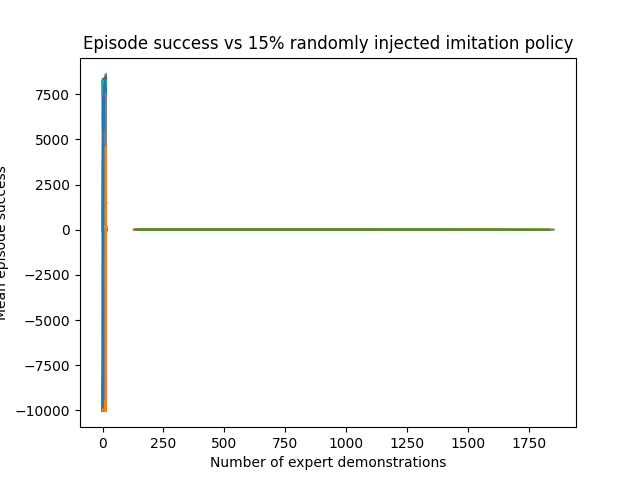
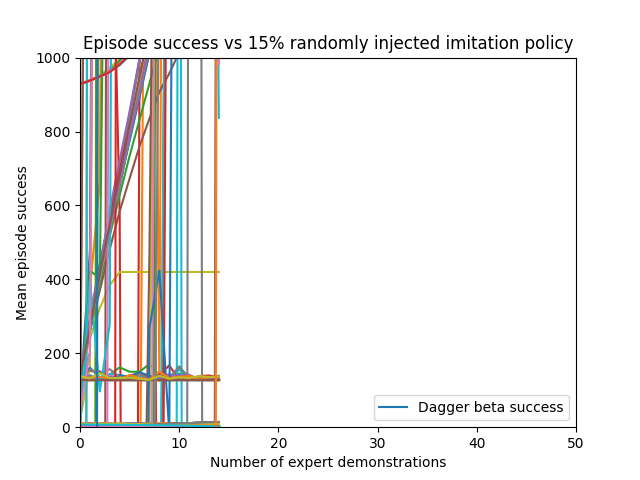
graph beta with better axis

diff --git a/manipulation_main/visualization/graph_results.py b/manipulation_main/visualization/graph_results.py
@@ -147,9 +147,12 @@ def graph_dagger_beta(dagger_beta_log_path: str, beta: int):
     
     print("Plotting" + str(beta))
     plt.plot(dagger_df)
+    plt.xlim(0, 50)
+    plt.ylim(0, 1000)
     plt.xlabel("Number of expert demonstrations")
     plt.ylabel("Mean episode success")
     plt.title("Episode success vs " + str(100-beta) + "% randomly injected imitation policy")
+    plt.legend(["Dagger beta success"], loc="lower right")
     plt.savefig("dagger_beta"+str(beta)+".png")
 if __name__ == "__main__":
     cnn_bc_log_path = os.path.join(BASE_DIR, "trained_models", "SAC_depth_1mbuffer", "bc", "cnn_precise_all_logs.csv")
